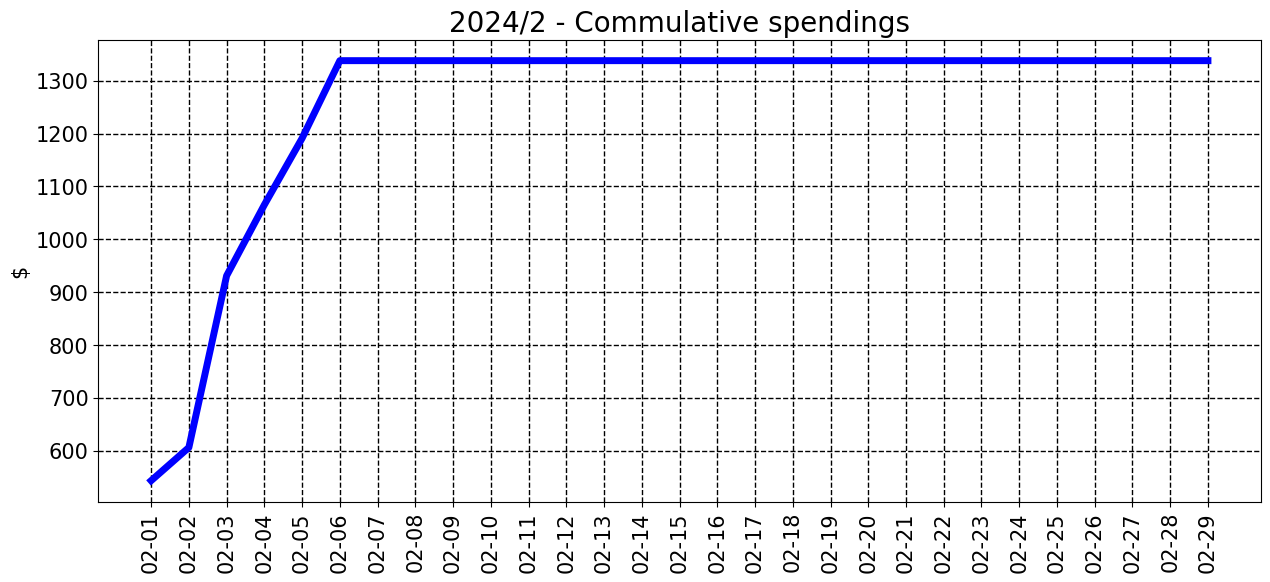
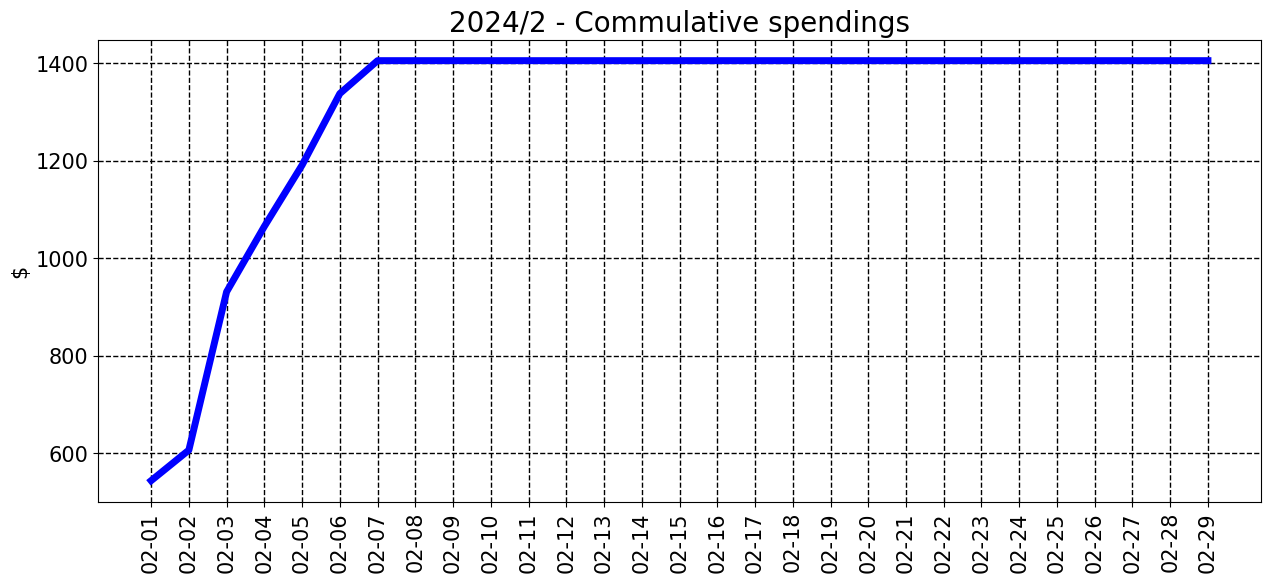
commit from python

Changed region(s): [[0.0307, 0.0928, 1.0, 0.7113], [0.0307, 0.7423, 0.9827, 0.8041]]

diff --git a/README.md b/README.md
@@ -7,7 +7,7 @@ __________________________________
 <sub><sup>
 | Spent | Avg daily | End of month projection | Spent since 2024/1 |
 |---|---|---|---|
-| $0.0  |  $0.0  | $0.0  |  $9746.0  |
+| $0.0  |  $0.0  | $0.0  |  $9814.0  |
 </sub></sup>
 __________________________________
 ![graph_12_sum](graph_12_sum.png)
@@ -21,7 +21,7 @@ __________________________________
 <sub><sup>
 | Spent | Avg daily | End of month projection | Spent since 2024/1 |
 |---|---|---|---|
-| $0.0  |  $0.0  | $0.0  |  $9746.0  |
+| $0.0  |  $0.0  | $0.0  |  $9814.0  |
 </sub></sup>
 __________________________________
 ![graph_11_sum](graph_11_sum.png)
@@ -35,7 +35,7 @@ __________________________________
 <sub><sup>
 | Spent | Avg daily | End of month projection | Spent since 2024/1 |
 |---|---|---|---|
-| $0.0  |  $0.0  | $0.0  |  $9746.0  |
+| $0.0  |  $0.0  | $0.0  |  $9814.0  |
 </sub></sup>
 __________________________________
 ![graph_10_sum](graph_10_sum.png)
@@ -49,7 +49,7 @@ __________________________________
 <sub><sup>
 | Spent | Avg daily | End of month projection | Spent since 2024/1 |
 |---|---|---|---|
-| $0.0  |  $0.0  | $0.0  |  $9746.0  |
+| $0.0  |  $0.0  | $0.0  |  $9814.0  |
 </sub></sup>
 __________________________________
 ![graph_9_sum](graph_9_sum.png)
@@ -63,7 +63,7 @@ __________________________________
 <sub><sup>
 | Spent | Avg daily | End of month projection | Spent since 2024/1 |
 |---|---|---|---|
-| $0.0  |  $0.0  | $0.0  |  $9746.0  |
+| $0.0  |  $0.0  | $0.0  |  $9814.0  |
 </sub></sup>
 __________________________________
 ![graph_8_sum](graph_8_sum.png)
@@ -77,7 +77,7 @@ __________________________________
 <sub><sup>
 | Spent | Avg daily | End of month projection | Spent since 2024/1 |
 |---|---|---|---|
-| $0.0  |  $0.0  | $0.0  |  $9746.0  |
+| $0.0  |  $0.0  | $0.0  |  $9814.0  |
 </sub></sup>
 __________________________________
 ![graph_7_sum](graph_7_sum.png)
@@ -91,7 +91,7 @@ __________________________________
 <sub><sup>
 | Spent | Avg daily | End of month projection | Spent since 2024/1 |
 |---|---|---|---|
-| $0.0  |  $0.0  | $0.0  |  $9746.0  |
+| $0.0  |  $0.0  | $0.0  |  $9814.0  |
 </sub></sup>
 __________________________________
 ![graph_6_sum](graph_6_sum.png)
@@ -105,7 +105,7 @@ __________________________________
 <sub><sup>
 | Spent | Avg daily | End of month projection | Spent since 2024/1 |
 |---|---|---|---|
-| $0.0  |  $0.0  | $0.0  |  $9746.0  |
+| $0.0  |  $0.0  | $0.0  |  $9814.0  |
 </sub></sup>
 __________________________________
 ![graph_5_sum](graph_5_sum.png)
@@ -119,7 +119,7 @@ __________________________________
 <sub><sup>
 | Spent | Avg daily | End of month projection | Spent since 2024/1 |
 |---|---|---|---|
-| $0.0  |  $0.0  | $0.0  |  $9746.0  |
+| $0.0  |  $0.0  | $0.0  |  $9814.0  |
 </sub></sup>
 __________________________________
 ![graph_4_sum](graph_4_sum.png)
@@ -133,7 +133,7 @@ __________________________________
 <sub><sup>
 | Spent | Avg daily | End of month projection | Spent since 2024/1 |
 |---|---|---|---|
-| $0.0  |  $0.0  | $0.0  |  $9746.0  |
+| $0.0  |  $0.0  | $0.0  |  $9814.0  |
 </sub></sup>
 __________________________________
 ![graph_3_sum](graph_3_sum.png)
@@ -147,7 +147,7 @@ __________________________________
 <sub><sup>
 | Spent | Avg daily | End of month projection | Spent since 2024/1 |
 |---|---|---|---|
-| $1338.0  |  $191.2  | $5545.0  |  $9746.0  |
+| $1406.0  |  $175.7  | $5095.0  |  $9814.0  |
 </sub></sup>
 __________________________________
 ![graph_2_sum](graph_2_sum.png)
